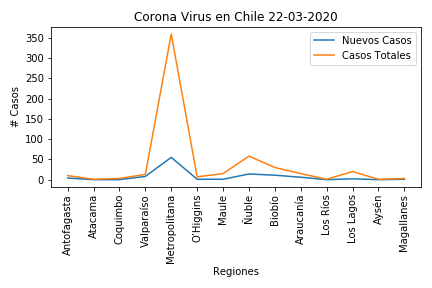
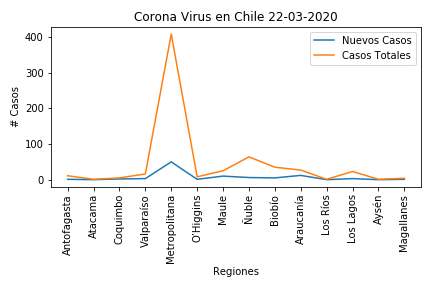
daily update

diff --git a/pushing-gsheets.py b/pushing-gsheets.py
@@ -1,0 +1,29 @@
+#!/usr/bin/env python3
+# -*- coding: utf-8 -*-
+"""
+Created on Sat Mar 21 19:49:03 2020
+
+@author: konradburchardt
+"""
+  
+from corona import df,daily,markdown_daily,markdown
+import datetime
+import pygsheets
+
+
+
+gc = pygsheets.authorize(service_file='corona-271822-e18788e4c847.json')
+
+#open the google spreadsheet 
+sh = gc.open_by_url('https://docs.google.com/spreadsheets/d/1FeE8dWfdFJi8lgi_sVg2Qn5xHM9wvP8eB7tB39lm374/edit#gid=0')
+
+#select the first sheet 
+wks = sh[0]
+
+#update the first sheet with df, starting at cell A1. 
+wks.set_dataframe(daily,'A1',copy_head=True)
+
+title= datetime.date.today().strftime("%d-%m-%Y")
+ 
+#adding new worksheet
+wks.add_worksheet(title, rows=100, cols=26, src_tuple=None, src_worksheet=None, index=None)

diff --git a/markdown_update.py b/markdown_update.py
@@ -1,0 +1,25 @@
+#!/usr/bin/env python3
+# -*- coding: utf-8 -*-
+"""
+Created on Sun Mar 22 10:53:23 2020
+
+@author: konradburchardt
+"""
+
+# Git File Generator
+from corona import df,daily, img_file
+import datetime
+
+
+markdown = daily.to_markdown()
+markdown_daily = df.to_markdown()
+
+print(markdown)
+print(markdown_daily)
+
+
+date= datetime.date.today().strftime("%d-%m-%Y")
+
+print("\n"+ '###' + date + "\n" + '<img src="https://github.com/sundios/Chile-coronavirus/blob/master/' + img_file + '.png" width="60%" height="100%">'+"\n" + markdown_daily, file=open("readme.md", "a"))
+
+

diff --git a/corona.py b/corona.py
@@ -128,7 +128,7 @@ daily['Recuperados'] = daily['Recuperados'].astype(float)
 
 
 #plotting
-img_file2 = 'Images/'+ datetime.date.today().strftime("%d-%m-%Y") + 'Totales-Chile'
+img_file2 = 'Images/Totales-Chile'
 title2 = 'Corona Virus en Chile Totales ' + datetime.date.today().strftime("%d-%m-%Y")
 
 plt.plot(daily['Fecha'],daily['Casos Totales'], label = "Casos Totales")

diff --git a/readme.md b/readme.md
@@ -4,58 +4,11 @@ Daily Corona virus fdata from Chile. Scraped daily from Minsal.cl.
 
 ## Daily Chile cases
 
-<img src="https://github.com/sundios/Chile-coronavirus/blob/master/Images/21-03-2020Totales-Chile.png" width="500" height="450">
+<img src="https://github.com/sundios/Chile-coronavirus/blob/master/Images/Totales-Chile.png" width="500" height="450">
 
+## Day By Day 
 
-## 21-03-2020
-<img src="https://github.com/sundios/Chile-coronavirus/blob/master/Images/21-03-2020.png" width="60%" height="100%">
-
-|    | Region             |   Nuevos Casos |   Casos Totales | Casos Recuperados   | Dates      |
-|---:|:-------------------|---------------:|----------------:|:--------------------|:-----------|
-|  2 | Arica y Parinacota |              0 |               1 | –                   | 21-03-2020 |
-|  3 | Tarapacá           |              0 |               0 | –                   | 21-03-2020 |
-|  4 | Antofagasta        |              4 |              10 | –                   | 21-03-2020 |
-|  5 | Atacama            |              0 |               1 | –                   | 21-03-2020 |
-|  6 | Coquimbo           |              0 |               3 | –                   | 21-03-2020 |
-|  7 | Valparaíso         |              8 |              13 | –                   | 21-03-2020 |
-|  8 | Metropolitana      |             55 |             359 | –                   | 21-03-2020 |
-|  9 | O’Higgins          |              1 |               7 | –                   | 21-03-2020 |
-| 10 | Maule              |              1 |              15 | –                   | 21-03-2020 |
-| 11 | Ñuble              |             14 |              58 | –                   | 21-03-2020 |
-| 12 | Biobío             |             11 |              30 | –                   | 21-03-2020 |
-| 13 | Araucanía          |              6 |              15 | –                   | 21-03-2020 |
-| 14 | Los Ríos           |              0 |               1 | –                   | 21-03-2020 |
-| 15 | Los Lagos          |              2 |              20 | –                   | 21-03-2020 |
-| 16 | Aysén              |              0 |               1 | –                   | 21-03-2020 |
-| 17 | Magallanes         |              1 |               3 | –                   | 21-03-2020 |
-| 18 | Total              |            103 |             537 | 8                   | 21-03-2020 |
-
-
-## 20-03-2020
-<img src="https://github.com/sundios/Chile-coronavirus/blob/master/Images/20-03-2020.png" width="60%" height="100%">
-
-|Index |Region             |Nuevos Casos|Casos Totales|
-|------|-------------------|------------|-------------|
-|2     |Arica y Parinacota |0           |1            |
-|3     |Tarapacá           |0           |0            |
-|4     |Antofagasta        |4           |6            |
-|5     |Atacama            |0           |1            |
-|6     |Coquimbo           |1           |3            |
-|7     |Valparaíso         |1           |5            |
-|8     |Metropolitana      |57          |304          |
-|9     |O’Higgins          |4           |6            |
-|10    |Maule              |0           |14           |
-|11    |Ñuble              |16          |44           |
-|12    |Biobío             |5           |19           |
-|13    |Araucanía          |2           |9            |
-|14    |Los Ríos           |0           |1            |
-|15    |Los Lagos          |2           |18           |
-|16    |Aysén              |0           |1            |
-|17    |Magallanes         |0           |2            |
-|18    |Total              |92          |434          |
-
-
-## 19-03-2020
+### 19-03-2020
 <img src="https://github.com/sundios/Chile-coronavirus/blob/master/Images/19-03-2020.png" width="60%" height="100%">
 
 |Index |Region             |Nuevos Casos|Casos Totales|
@@ -79,12 +32,75 @@ Daily Corona virus fdata from Chile. Scraped daily from Minsal.cl.
 |18    |Total              |103         |342          |
 
 
+### 20-03-2020
+<img src="https://github.com/sundios/Chile-coronavirus/blob/master/Images/20-03-2020.png" width="60%" height="100%">
 
- 
+|Index |Region             |Nuevos Casos|Casos Totales|
+|------|-------------------|------------|-------------|
+|2     |Arica y Parinacota |0           |1            |
+|3     |Tarapacá           |0           |0            |
+|4     |Antofagasta        |4           |6            |
+|5     |Atacama            |0           |1            |
+|6     |Coquimbo           |1           |3            |
+|7     |Valparaíso         |1           |5            |
+|8     |Metropolitana      |57          |304          |
+|9     |O’Higgins          |4           |6            |
+|10    |Maule              |0           |14           |
+|11    |Ñuble              |16          |44           |
+|12    |Biobío             |5           |19           |
+|13    |Araucanía          |2           |9            |
+|14    |Los Ríos           |0           |1            |
+|15    |Los Lagos          |2           |18           |
+|16    |Aysén              |0           |1            |
+|17    |Magallanes         |0           |2            |
+|18    |Total              |92          |434          |
 
 
 
-## Authors
 
-* **Sundios** - *Initial work* - [Sundios](https://github.com/sundios)
+### 21-03-2020
+<img src="https://github.com/sundios/Chile-coronavirus/blob/master/Images/21-03-2020.png" width="60%" height="100%">
+
+|    | Region             |   Nuevos Casos |   Casos Totales | Casos Recuperados   | Dates      |
+|---:|:-------------------|---------------:|----------------:|:--------------------|:-----------|
+|  2 | Arica y Parinacota |              0 |               1 | –                   | 21-03-2020 |
+|  3 | Tarapacá           |              0 |               0 | –                   | 21-03-2020 |
+|  4 | Antofagasta        |              4 |              10 | –                   | 21-03-2020 |
+|  5 | Atacama            |              0 |               1 | –                   | 21-03-2020 |
+|  6 | Coquimbo           |              0 |               3 | –                   | 21-03-2020 |
+|  7 | Valparaíso         |              8 |              13 | –                   | 21-03-2020 |
+|  8 | Metropolitana      |             55 |             359 | –                   | 21-03-2020 |
+|  9 | O’Higgins          |              1 |               7 | –                   | 21-03-2020 |
+| 10 | Maule              |              1 |              15 | –                   | 21-03-2020 |
+| 11 | Ñuble              |             14 |              58 | –                   | 21-03-2020 |
+| 12 | Biobío             |             11 |              30 | –                   | 21-03-2020 |
+| 13 | Araucanía          |              6 |              15 | –                   | 21-03-2020 |
+| 14 | Los Ríos           |              0 |               1 | –                   | 21-03-2020 |
+| 15 | Los Lagos          |              2 |              20 | –                   | 21-03-2020 |
+| 16 | Aysén              |              0 |               1 | –                   | 21-03-2020 |
+| 17 | Magallanes         |              1 |               3 | –                   | 21-03-2020 |
+| 18 | Total              |            103 |             537 | 8                   | 21-03-2020 |
+
+
+###22-03-2020
+<img src="https://github.com/sundios/Chile-coronavirus/blob/master/Images/22-03-2020.png" width="60%" height="100%">
+|    | Region             |   Nuevos Casos |   Casos Totales | Casos Recuperados   | Dates      |
+|---:|:-------------------|---------------:|----------------:|:--------------------|:-----------|
+|  2 | Arica y Parinacota |              1 |               2 | –                   | 22-03-2020 |
+|  3 | Tarapacá           |              0 |               0 | –                   | 22-03-2020 |
+|  4 | Antofagasta        |              1 |              11 | –                   | 22-03-2020 |
+|  5 | Atacama            |              0 |               1 | –                   | 22-03-2020 |
+|  6 | Coquimbo           |              2 |               5 | –                   | 22-03-2020 |
+|  7 | Valparaíso         |              3 |              16 | –                   | 22-03-2020 |
+|  8 | Metropolitana      |             50 |             409 | –                   | 22-03-2020 |
+|  9 | O’Higgins          |              1 |               8 | –                   | 22-03-2020 |
+| 10 | Maule              |             10 |              25 | –                   | 22-03-2020 |
+| 11 | Ñuble              |              6 |              64 | –                   | 22-03-2020 |
+| 12 | Biobío             |              5 |              35 | –                   | 22-03-2020 |
+| 13 | Araucanía          |             12 |              27 | –                   | 22-03-2020 |
+| 14 | Los Ríos           |              0 |               1 | –                   | 22-03-2020 |
+| 15 | Los Lagos          |              3 |              23 | –                   | 22-03-2020 |
+| 16 | Aysén              |              0 |               1 | –                   | 22-03-2020 |
+| 17 | Magallanes         |              1 |               4 | –                   | 22-03-2020 |
+| 18 | Total              |             95 |             632 | 8                   | 22-03-2020 |
 
